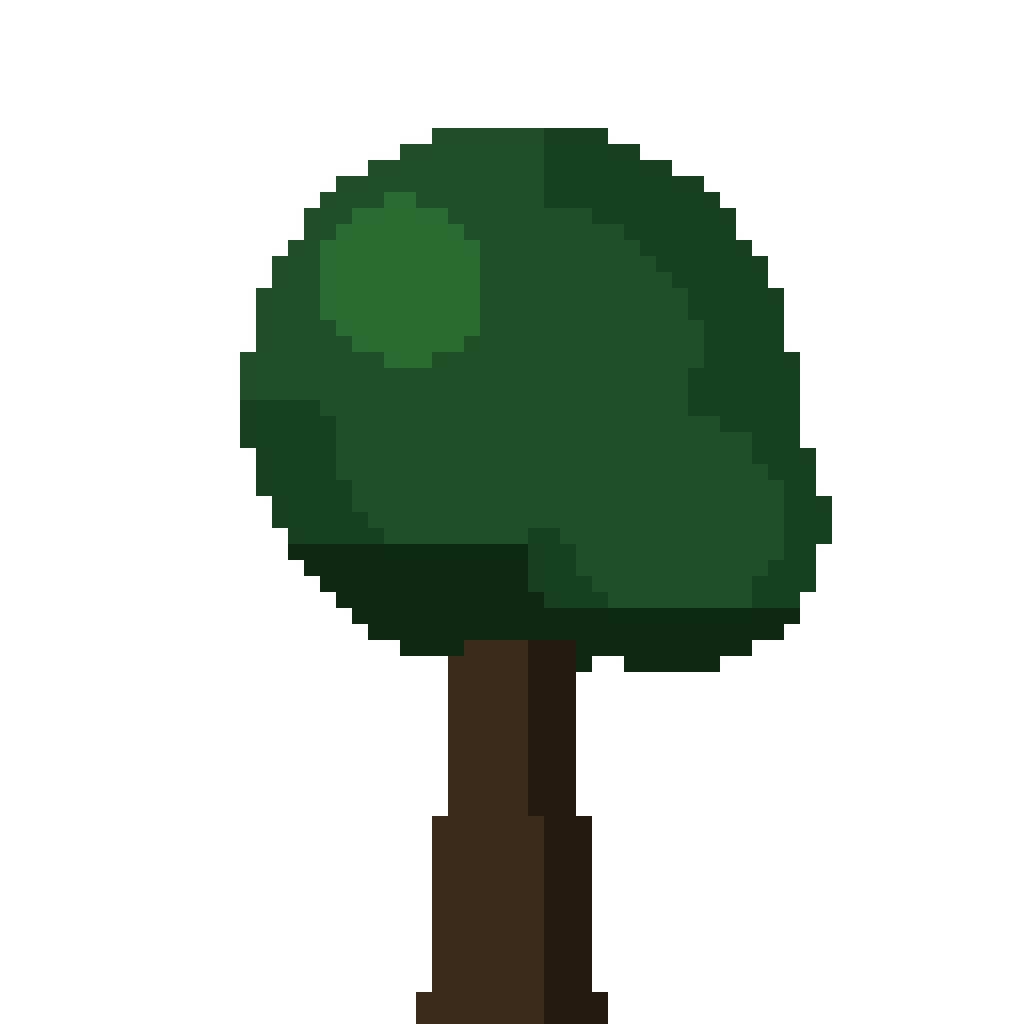
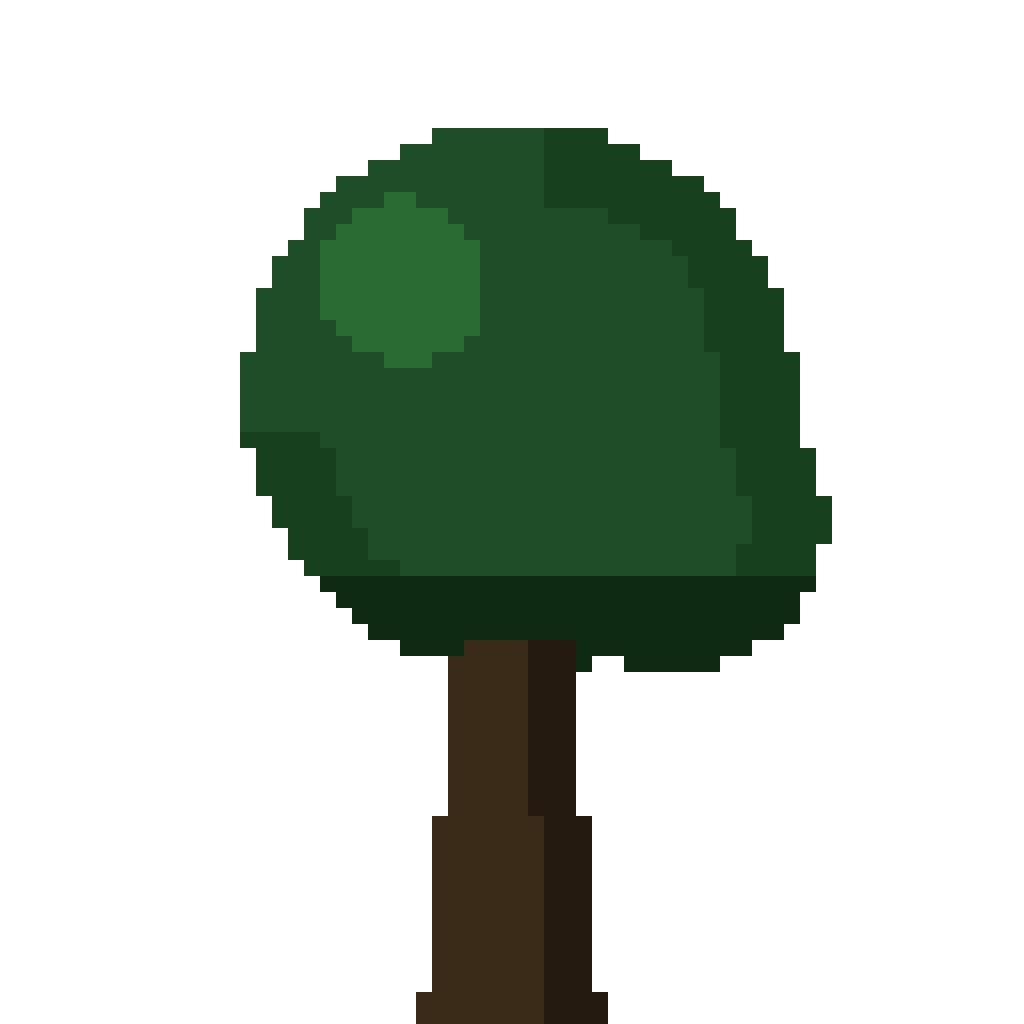
fix(garden): one canopy per tree, narrow trees on the flanks, denser inner ring
The lumps inside the canopies were lobe seams. A round broadleaf is one crown
plus a shoulder lobe and an oak is three overlapping lobes, and each lobe shaded
ITSELF as it was painted -- so wherever a later lobe overlapped an earlier one it
laid its own dark rim down inside the crown they share, leaving a curved dark arc
through the middle that reads as a piece of another tree stuck on. blob() now
only collects a lobe; paint_canopy() unions them into a single silhouette and
shades that once. The pine, whose tiers are meant to read as tiers, was fine.

The test for it is worth a note, because the first version was worthless. It
bounded "the two darkest canopy tones" at 0.20n from the silhouette -- and the
darkest tone is the underside band, which is legitimately deep, so it drowned the
signal and the pre-fix sprites measured 0.19n against a 0.20n bound. Running the
new test against the old generator straight out of git is what exposed that.
Rewritten to bound the shade tone alone: pre-fix it reaches 0.250n and fails ten
of twenty trees -- exactly the ten lobed ones -- while the fixed sprites peak at
0.094n. The 0.12n bound comes from those two measurements.

kBigTreeClearTiles 6 -> 7, so no 4-tile tree lands within the first six rows.

The innermost ring tile has its own mix now, taken before the woods' gap roll:
denser than the forest (kRingInnerGapPercent 20 vs 34) because a hole one tile
out is a hole in the clearing's own rim, and with far fewer trees, since "cok
[…]

Changed region(s): [[0.5625, 0.5625, 0.75, 0.5938], [0.3438, 0.5312, 0.5312, 0.5625]]

diff --git a/flutter/lib/engine/garden_engine.dart b/flutter/lib/engine/garden_engine.dart
@@ -67,9 +67,26 @@ const int kBigTreeBlock = 7;
 /// regular grid of them.
 const int kBigTreePercent = 60;
 
-/// A full 4-tile tree stays this many tiles back — its canopy leans 1.8 tiles
-/// over the plot from four tiles out, which is most of the clearing's edge.
-const int kBigTreeClearTiles = 6;
+/// A full 4-tile tree stays this many tiles back — "ilk 6 hatta cok büyük
+/// agaclar olmasin" (#v34.17; was 6, so one still landed on the sixth row).
+const int kBigTreeClearTiles = 7;
+
+/// The 2-tile trees whose sprite is NARROW — the poplars, plus the slimmest
+/// broadleaf. Indices into the tree pool, and the only trees allowed in the
+/// innermost ring tile on the flanks.
+///
+/// A flank prop overlaps the clearing SIDEWAYS, by `width/2 - 0.5` tiles, so a
+/// narrow silhouette is the one thing that genuinely reduces how far it reaches
+/// in: "ilk hatta sag solda genis agac degilde, böyle ince uzun tarza agac".
+/// The drawn rect is the same for every 2-tile tree — what changes is how much
+/// of it the artwork actually fills, 41-56% here against 66-72% for the rest.
+/// Gated by a sprite test, so re-rolling a silhouette cannot leave this stale.
+const List<int> kNarrowTrees = [5, 13, 15];
+
+/// Bare-ground share for the tile hard against the clearing. Lower than the
+/// woods' [kForestGapPercent] because at one tile out a hole is a hole in the
+/// clearing's own rim — "birinci hatta bazen cok bosluk oluyor".
+const int kRingInnerGapPercent = 20;
 
 /// 3-tile trees may take a lattice site from this distance, so the size jump
 /// from the 2-tile woods to the landmarks is not all-or-nothing and the middle
@@ -276,6 +293,17 @@ String? forestPropAt(int c, int r, int cols, int rows) {
     if (big != null) return big;
   }
 
+  // The tile hard against the clearing has its own mix (#v34.17): denser than
+  // the woods so its rim has no holes, but with far fewer trees in it — the
+  // flanks take a NARROW tree only, and the near and far edges none at all,
+  // since a tree there reaches 1.5 tiles up over the garden.
+  if (d == 1) {
+    if (bucket < kRingInnerGapPercent) return null;
+    if (bucket < 44 && isPlotSideTile(c, r, cols, rows)) return _narrowTree(pick);
+    if (bucket < 68) return id('bush', kForestBushes);
+    return id('rock', kForestRocks);
+  }
+
   if (bucket < kForestGapPercent) return null; // bare woodland floor
 
   // The transition ring — small trees, bushes and rocks, at the same density as
@@ -287,13 +315,7 @@ String? forestPropAt(int c, int r, int cols, int rows) {
   // in front of the clearing, which is just what a tree in front of a clearing
   // does.
   if (d <= kUndergrowthTiles) {
-    // Small trees from kRingTreeTiles out, and in the innermost tile too where
-    // it is a FLANK rather than the near or far edge (#v34.16) — see
-    // isPlotSideTile. Sparser on the flank so it reads as a treeline rather
-    // than a hedge planted along the fence.
-    final trees = d >= kRingTreeTiles || isPlotSideTile(c, r, cols, rows);
-    final treeShare = d >= kRingTreeTiles ? 78 : 66;
-    if (bucket < treeShare && trees) return _smallTree(pick);
+    if (bucket < 78) return _smallTree(pick);
     if (bucket < 90) return id('bush', kForestBushes);
     return id('rock', kForestRocks);
   }
@@ -321,6 +343,12 @@ String? _bigTreeAt(int c, int r, int maxTiles) {
 
 /// The nearest 2-tile tree to [pick] — the whole forest is built from these.
 String _smallTree(int pick) => _treeOfSize(pick, (t) => t == 2, 'tree_00');
+
+/// One of the narrow 2-tile trees — see [kNarrowTrees].
+String _narrowTree(int pick) {
+  final n = kNarrowTrees[pick % kNarrowTrees.length];
+  return 'tree_${n.toString().padLeft(2, '0')}';
+}
 
 /// The nearest tree to [pick] taller than the woods but no taller than
 /// [maxTiles].

diff --git a/flutter/android_overlay/kotlin/com/pixelpomo/pixel_pomo/GardenRenderer.kt b/flutter/android_overlay/kotlin/com/pixelpomo/pixel_pomo/GardenRenderer.kt
@@ -593,8 +593,17 @@ class GardenRenderer(private val data: GardenData) {
      *  kBigTreeClearTiles / kUndergrowthTiles in garden_engine.dart (#v34.12). */
     private val bigTreeBlock = 7
     private val bigTreePercent = 60
-    private val bigTreeClearTiles = 6
+    private val bigTreeClearTiles = 7
     private val midTreeClearTiles = 4
+    private val ringInnerGapPercent = 20
+
+    /** The narrow 2-tile trees — the only ones allowed in the innermost ring
+     *  tile on the flanks, where a prop overlaps the clearing sideways. MUST
+     *  match kNarrowTrees in garden_engine.dart (#v34.17). */
+    private val narrowTrees = intArrayOf(5, 13, 15)
+
+    private fun narrowTree(pick: Int): String =
+        "tree_" + narrowTrees[pick % narrowTrees.size].toString().padStart(2, '0')
     private val undergrowthTiles = 2
     private val ringTreeTiles = 2
 
@@ -655,16 +664,21 @@ class GardenRenderer(private val data: GardenData) {
         if (d >= midTreeClearTiles) {
             bigTreeAt(c, r, if (d >= bigTreeClearTiles) 4 else 3)?.let { return it }
         }
+        // The tile hard against the clearing has its own mix (#v34.17): denser
+        // than the woods so its rim has no holes, but with far fewer trees —
+        // the flanks take a NARROW tree only, the near and far edges none.
+        // Mirrors forestPropAt in garden_engine.dart.
+        if (d == 1) {
+            return when {
+                bucket < ringInnerGapPercent -> null
+                bucket < 44 && isPlotSideTile(c, r) -> narrowTree(pick)
+                bucket < 68 -> id("bush", 10)
+                else -> id("rock", 5)
+            }
+        }
         return when {
             bucket < forestGapPercent -> null
-            // the transition ring — same density as the woods, only the
-            // innermost tile drops the small trees (they would lean 1.5 tiles
-            // over the plot from there)
-            // small trees from ringTreeTiles out, and in the innermost tile too
-            // where it is a FLANK rather than the near/far edge (#v34.16) —
-            // mirrors isPlotSideTile in garden_engine.dart
-            d <= undergrowthTiles && bucket < 78 && d >= ringTreeTiles -> smallTree(pick)
-            d <= undergrowthTiles && bucket < 66 && isPlotSideTile(c, r) -> smallTree(pick)
+            d <= undergrowthTiles && bucket < 78 -> smallTree(pick)
             d <= undergrowthTiles && bucket < 90 -> id("bush", 10)
             d <= undergrowthTiles -> id("rock", 5)
             bucket < 84 -> smallTree(pick)

diff --git a/flutter/test/engine_test.dart b/flutter/test/engine_test.dart
@@ -272,6 +272,42 @@ void main() {
       expect(edgeTiles, greaterThan(0), reason: 'sanity: near/far edge tiles exist');
     });
 
+    test('the flank trees are the narrow ones', () {
+      // "ilk hatta sag solda genis agac degilde, böyle ince uzun tarza agac"
+      // (#v34.17). A flank prop overlaps the clearing sideways, so how much of
+      // its drawn rect the artwork actually fills is the thing that matters —
+      // every 2-tile tree is drawn the same width, but a poplar fills 41% of it
+      // against a broadleaf's 72%. The sprite gate checks kNarrowTrees really
+      // are the narrow sprites; this checks the flank uses only those.
+      var found = 0;
+      for (var r = 0; r < rows; r++) {
+        for (final c in [-1, cols]) {
+          final id = forestPropAt(c, r, cols, rows);
+          if (id == null || !id.startsWith('tree_')) continue;
+          found++;
+          expect(kNarrowTrees, contains(int.parse(id.substring(5))),
+              reason: '$id at ($c,$r) is a wide tree on the flank');
+        }
+      }
+      expect(found, greaterThan(0), reason: 'sanity: the flanks grew some trees');
+    });
+
+    test('the innermost ring tile is denser than the woods', () {
+      // "birinci hatta bazen cok bosluk oluyor" — a hole at one tile out is a
+      // hole in the clearing's own rim, so it runs at its own lower gap rate.
+      var props = 0, tiles = 0;
+      for (var r = -1; r <= rows; r++) {
+        for (var c = -1; c <= cols; c++) {
+          if (tilesOutsidePlot(c, r, cols, rows) != 1) continue;
+          tiles++;
+          if (forestPropAt(c, r, cols, rows) != null) props++;
+        }
+      }
+      final fill = props / tiles;
+      expect(fill, greaterThan(1 - kForestGapPercent / 100),
+          reason: 'the inner ring is no denser than the woods ($fill)');
+    });
+
     test('a flank prop never reaches far across the clearing sideways', () {
       // The flank's exemption from the vertical-lean bound is only sound
       // because its SIDEWAYS overlap is small. A tile one out has its centre

diff --git a/flutter/tools/test_sprites.py b/flutter/tools/test_sprites.py
@@ -73,7 +73,38 @@ class TreeTableIsMirrored(unittest.TestCase):
          r"val ringTreeTiles = (\d+)"),
         ("grass-bloom tint rarity", r"const int kGrassBloomTintPercent = (\d+);",
          r"val grassBloomTintPercent = (\d+)"),
+        ("inner-ring density", r"const int kRingInnerGapPercent = (\d+);",
+         r"val ringInnerGapPercent = (\d+)"),
+        ("narrow trees", r"const List<int> kNarrowTrees = \[([^\]]*)\]",
+         r"val narrowTrees = intArrayOf\(([^)]*)\)"),
     ]
+
+    def test_the_narrow_tree_list_is_actually_the_narrow_trees(self):
+        # kNarrowTrees is the only thing standing between a flank tile and a
+        # wide canopy reaching across the clearing's edge, and it is a hand-kept
+        # list of indices — exactly the kind that goes stale the moment a
+        # silhouette is re-rolled. Derive the answer and compare (#v34.17).
+        dart = self._table(
+            os.path.join(FLUTTER, "lib", "engine", "garden_engine.dart"),
+            r"const List<int> kNarrowTrees = \[([^\]]*)\]")
+        for idx in dart:
+            grid = g._tree_variant(idx + 1)
+            n = len(grid)
+            self.assertEqual(g.TREE_TILES[idx], 2,
+                             f"tree_{idx:02d} is in kNarrowTrees but is not a 2-tile tree")
+            cols = [c for c in range(n) if any(grid[r][c][3] for r in range(n))]
+            width = (max(cols) - min(cols) + 1) / n
+            self.assertLessEqual(width, 0.60,
+                                 f"tree_{idx:02d} fills {width:.0%} of its canvas — not narrow")
+        # and nothing narrow was left out, or the flanks lose variety for no reason
+        for idx, tiles in enumerate(g.TREE_TILES):
+            if tiles != 2 or idx in dart:
+                continue
+            grid = g._tree_variant(idx + 1)
+            n = len(grid)
+            cols = [c for c in range(n) if any(grid[r][c][3] for r in range(n))]
+            self.assertGreater((max(cols) - min(cols) + 1) / n, 0.60,
+                               f"tree_{idx:02d} is narrow but missing from kNarrowTrees")
 
     def test_the_one_tile_prop_sizes_match_in_dart_and_kotlin(self):
         # A prop drawn at a different height in the two renderers sits at a
@@ -188,6 +219,58 @@ class TreesAreWellFormed(unittest.TestCase):
                 for r in range(n):
                     self.assertFalse(grid[r][0][3], f"tree {seed} touches the left edge")
                     self.assertFalse(grid[r][n - 1][3], f"tree {seed} touches the right edge")
+
+    def test_no_canopy_has_a_seam_running_through_it(self):
+        # "yuvarlagin icinde sanki baska bir agac parcasi varmis gibi bogumlar"
+        # (#v34.17). Each lobe used to shade itself as it was painted, so where
+        # two lobes overlapped the later one laid its dark rim down INSIDE the
+        # shared crown — a curved seam through the middle of the canopy.
+        #
+        # The observable property: a crown shaded from its own outline keeps its
+        # DARK tones on that outline. A lobe rim painted inside the shared crown
+        # puts them deep in the middle instead. Measured as the true distance to
+        # transparency (multi-source BFS), independent of how the generator
+        # decides what is an edge — so this is a check on the result, not a
+        # restatement of the algorithm.
+        #
+        # The bound was set by running this against the pre-fix generator, not
+        # by guessing: the SHADE tone (second darkest) reached 0.250n inside the
+        # crown on the ten lobed trees and 0.094n at worst on the fixed ones, so
+        # 0.12n fails every sprite the user complained about and passes all
+        # twenty now. A first attempt used "the two darkest tones" at 0.20n and
+        # would have passed the broken sprites unchanged — the underside band is
+        # legitimately deep, and averaging it in hid the signal.
+        for seed in range(1, len(g.TREE_TILES) + 1):
+            with self.subTest(tree=f"tree_{seed - 1:02d}"):
+                grid = g._tree_variant(seed)
+                n = len(grid)
+                canopy = [[bool(px[3]) and px[1] >= px[0] for px in row] for row in grid]
+                dist = [[-1] * n for _ in range(n)]
+                q = deque()
+                for r in range(n):
+                    for c in range(n):
+                        if not canopy[r][c]:
+                            dist[r][c] = 0
+                            q.append((r, c))
+                while q:
+                    r, c = q.popleft()
+                    for dr, dc in ((1, 0), (-1, 0), (0, 1), (0, -1)):
+                        nr, nc = r + dr, c + dc
+                        if 0 <= nr < n and 0 <= nc < n and dist[nr][nc] < 0:
+                            dist[nr][nc] = dist[r][c] + 1
+                            q.append((nr, nc))
+                tones = {}
+                for r in range(n):
+                    for c in range(n):
+                        if canopy[r][c]:
+                            tones.setdefault(grid[r][c][:3], []).append((r, c))
+                if len(tones) < 3:
+                    continue  # a single-tone crown has no seams to find
+                shade = sorted(tones, key=sum)[1]  # darkest is the underside band
+                deepest = max(dist[r][c] for r, c in tones[shade]) / n
+                self.assertLessEqual(deepest, 0.12,
+                                     f"shade sits {deepest:.3f}n inside the crown "
+                                     f"— that is a lobe seam, not an outline")
 
     def test_the_forest_keeps_some_dark_trees(self):
         # #v34.9 — the user asked for the old deep-green trees back in the mix,

diff --git a/flutter/tools/gen_objects.py b/flutter/tools/gen_objects.py
@@ -238,36 +238,73 @@ def _tree_variant(seed):
         if 0 <= c < n and 0 <= r < n:
             g[int(r)][int(c)] = col
 
+    # Lobes are COLLECTED, not painted (#v34.17). Each one used to shade itself
+    # as it was drawn, so wherever two lobes overlapped the second one laid its
+    # own dark rim down INSIDE the crown they share — a curved seam through the
+    # middle of the canopy that reads as a lump, or as a piece of another tree
+    # stuck to this one: "yuvarlagin icinde sanki baska bir agac parcasi varmis
+    # gibi bogumlar var". A crown is one shape, so it has to be shaded once,
+    # from the outline of the WHOLE crown.
+    lobes = []
+
     def blob(bcx, bcy, rad, squash=1.0, highlight=True):
-        """A shaded ellipse of canopy: a small highlight up-left, shade on the
-        lower-right edge, a dark underside. The highlight is deliberately a
-        SMALL cap — lighting half the crown made every tree read as two flat
-        colours split down the middle."""
-        # The row range must cover the ellipse's REAL vertical extent, which is
-        # rad/squash, at BOTH ends. It used to read `bcy - rad - 1` on top and
+        lobes.append((bcx, bcy, rad, squash, highlight))
+
+    def paint_canopy():
+        """Union the lobes, then shade that single silhouette."""
+        # The row range must cover each ellipse's REAL vertical extent, which is
+        # rad/squash. It used to read `bcy - rad - 1` on top and
         # `bcy + rad/squash + 2` underneath, so any blob with squash < 1 — i.e.
         # every poplar, at 0.60 — had the top ~10 rows of its crown simply never
         # visited, and came out with a hard horizontal cut across the head:
         # "sanki agac tepeden kesilmis gibi". It slipped past the canvas-edge
         # test because the cut lands mid-canvas, not on row 0.
-        span = rad / squash
-        for r in range(int(bcy - span - 1), int(bcy + span + 2)):
-            for c in range(int(bcx - rad - 1), int(bcx + rad + 2)):
-                dx, dy = c - bcx, (r - bcy) * squash
-                d2 = dx * dx + dy * dy
-                if d2 > rad * rad:
+        mask = [[False] * n for _ in range(n)]
+        for bcx, bcy, rad, squash, _ in lobes:
+            span = rad / squash
+            for r in range(max(0, int(bcy - span - 1)), min(n, int(bcy + span + 2))):
+                for c in range(max(0, int(bcx - rad - 1)), min(n, int(bcx + rad + 2))):
+                    dx, dy = c - bcx, (r - bcy) * squash
+                    if dx * dx + dy * dy <= rad * rad:
+                        mask[r][c] = True
+
+        rows = [r for r in range(n) if any(mask[r])]
+        if not rows:
+            return
+        cols = [c for c in range(n) if any(mask[r][c] for r in range(n))]
+        top, bot = rows[0], rows[-1]
+        mid_x = (cols[0] + cols[-1]) / 2.0
+
+        # rim thickness scales with the crown, so a 64px tree isn't outlined
+        # with the same 1px edge a 32px one gets
+        hcx, hcy, hrad, hsq, has_lit = lobes[0]
+        rim = max(1, int(round(hrad * 0.30)))
+
+        def outside(r, c):
+            return not (0 <= r < n and 0 <= c < n and mask[r][c])
+
+        for r in range(n):
+            for c in range(n):
+                if not mask[r][c]:
                     continue
-                edge = d2 > (rad - max(1.0, rad * 0.30)) ** 2
-                hx, hy = dx + rad * 0.42, dy + rad * 0.42   # highlight centre, up-left
-                if dy > rad * 0.55:
+                # distance to the crown's own outline, sampled in the four
+                # directions that matter for a lit-from-above-left look
+                near_edge = any(
+                    outside(r + dr * k, c + dc * k)
+                    for k in range(1, rim + 1)
+                    for dr, dc in ((1, 0), (0, 1), (0, -1), (-1, 0)))
+                below = (r - top) / max(1.0, bot - top)
+                hx = (c - hcx) + hrad * 0.42          # highlight centre, up-left
+                hy = (r - hcy) * hsq + hrad * 0.42
+                if below > 0.82:
                     col = under
-                elif edge and (dx > rad * 0.1 or dy > 0):
+                elif near_edge and (c > mid_x or below > 0.55):
                     col = shade
-                elif highlight and hx * hx + hy * hy < (rad * 0.30) ** 2:
+                elif has_lit and hx * hx + hy * hy < (hrad * 0.30) ** 2:
                     col = lit
                 else:
                     col = mid
-                put(c, r, col)
+                g[r][c] = col
 
     if shape == 1:
         # PINE — stacked tiers, widest at the bottom, a spike on top. The tiers
@@ -311,6 +348,8 @@ def _tree_variant(seed):
         blob(cx, n * 0.38, n * 0.27)
         blob(cx + n * 0.15 * (1 if rb(2) else -1), n * 0.50, n * 0.15, highlight=False)
         trunk_top = n * 0.72
+
+    paint_canopy()   # one silhouette, shaded once — no seams between the lobes
 
     # Trunk: start it INSIDE the canopy, not at a guessed fraction of the
     # height. Half the trees came out with the trunk floating below a crown
